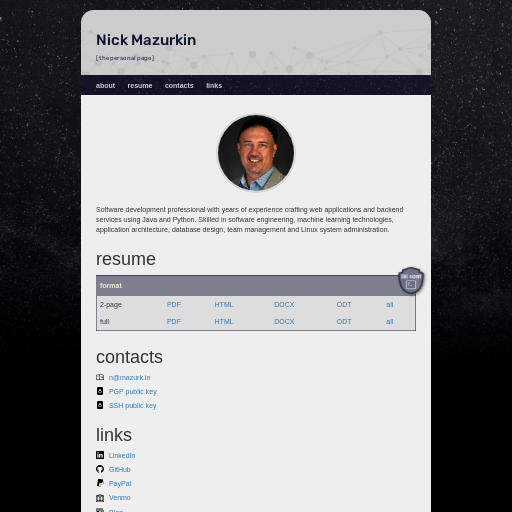
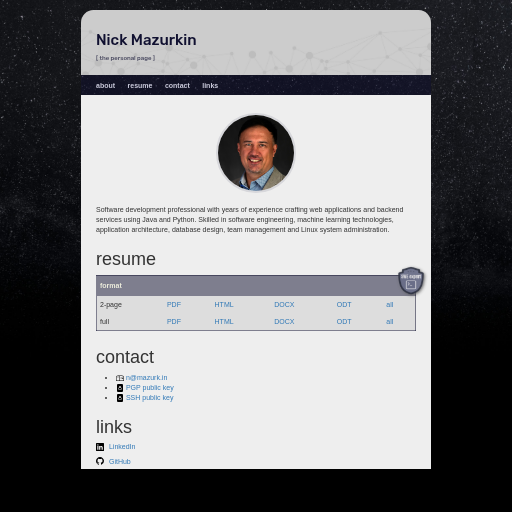
update

Changed region(s): [[0.1562, 0.6875, 0.8438, 1.0], [0.1875, 0.0625, 0.375, 0.0938], [0.375, 0.1562, 0.4375, 0.1875]]

diff --git a/README.html b/README.html
@@ -4,7 +4,7 @@
   <meta charset="utf-8" />
   <meta name="generator" content="pandoc" />
   <meta name="viewport" content="width=device-width, initial-scale=1.0, user-scalable=yes" />
-  <meta name="dcterms.date" content="2025-01-12" />
+  <meta name="dcterms.date" content="2025-03-08" />
   <title>Nick Mazurkin – the personal page</title>
   <style>
     code{white-space: pre-wrap;}
@@ -44,13 +44,13 @@
 <header id="title-block-header">
 <h1 class="title">Nick Mazurkin</h1>
 <p class="subtitle">[ the personal page ]</p>
-<p class="date">2025-01-12</p>
+<p class="date">2025-03-08</p>
 </header>
 <nav id="TOC" role="doc-toc">
 <ul>
 <li><a href="#about">about</a></li>
 <li><a href="#resume">resume</a></li>
-<li><a href="#contacts">contacts</a></li>
+<li><a href="#contact">contact</a></li>
 <li><a href="#links">links</a></li>
 </ul>
 </nav>
@@ -94,8 +94,8 @@
 </tbody>
 </table>
 </section>
-<section id="contacts" class="level1">
-<h1>contacts</h1>
+<section id="contact" class="level1">
+<h1>contact</h1>
 <ul>
 <li><img src="/i/icon/mailbox.svg" alt="Send email message"> <script type="text/javascript">
 <!--
@@ -114,7 +114,6 @@ document.write('<a h'+'ref'+'="ma'+'ilto'+':'+e+'" clas'+'s="em' + 'ail">'+e+'<\
 <li><img src="/i/ext/github.svg" alt="GitHub page"> <a href="https://github.com/mazurkin">GitHub</a></li>
 <li><img src="/i/ext/paypal.svg" alt="PayPal account"> <a href="https://paypal.me/mazurkin?country.x=US&amp;locale.x=en_USn">PayPal</a></li>
 <li><img src="/i/icon/bank.svg" alt="Venmo account"> <a href="https://account.venmo.com/u/mazurkin">Venmo</a></li>
-<li><img src="/i/icon/newspaper.svg" alt="Blog"> <a href="https://github.com/mazurkin/mazurkin.github.io/wiki">Blog</a></li>
 </ul>
 </section>
 <script>

diff --git a/README.md b/README.md
@@ -18,7 +18,7 @@ team management and Linux system administration.
 | 2-page | [PDF](/doc/resume/resume.pdf) | [HTML](/doc/resume/resume.html) | [DOCX](/doc/resume/resume.docx) | [ODT](/doc/resume/resume.odt) | [all](https://github.com/mazurkin/mazurkin.github.io/tree/main/doc/resume) |
 | full   | [PDF](/doc/cv/cv.pdf)         | [HTML](/doc/cv/cv.html)         | [DOCX](/doc/cv/cv.docx)         | [ODT](/doc/cv/cv.odt)         | [all](https://github.com/mazurkin/mazurkin.github.io/tree/main/doc/cv)     |
 
-# contacts
+# contact
 
 - <img src="/i/icon/mailbox.svg" alt="Send email message">&nbsp;[n@mazurk.in](mailto:n@mazurk.in)
 - <img src="/i/file/file-lock-fill.svg" alt="PGP public key">&nbsp;[PGP public key](/file/pgp/public.txt)
@@ -30,5 +30,3 @@ team management and Linux system administration.
 - <img src="/i/ext/github.svg" alt="GitHub page">&nbsp;[GitHub](https://github.com/mazurkin)
 - <img src="/i/ext/paypal.svg" alt="PayPal account">&nbsp;[PayPal](https://paypal.me/mazurkin?country.x=US&locale.x=en_USn)
 - <img src="/i/icon/bank.svg" alt="Venmo account">&nbsp;[Venmo](https://account.venmo.com/u/mazurkin)
-- <img src="/i/icon/newspaper.svg" alt="Blog">&nbsp;[Blog](https://github.com/mazurkin/mazurkin.github.io/wiki)
-
